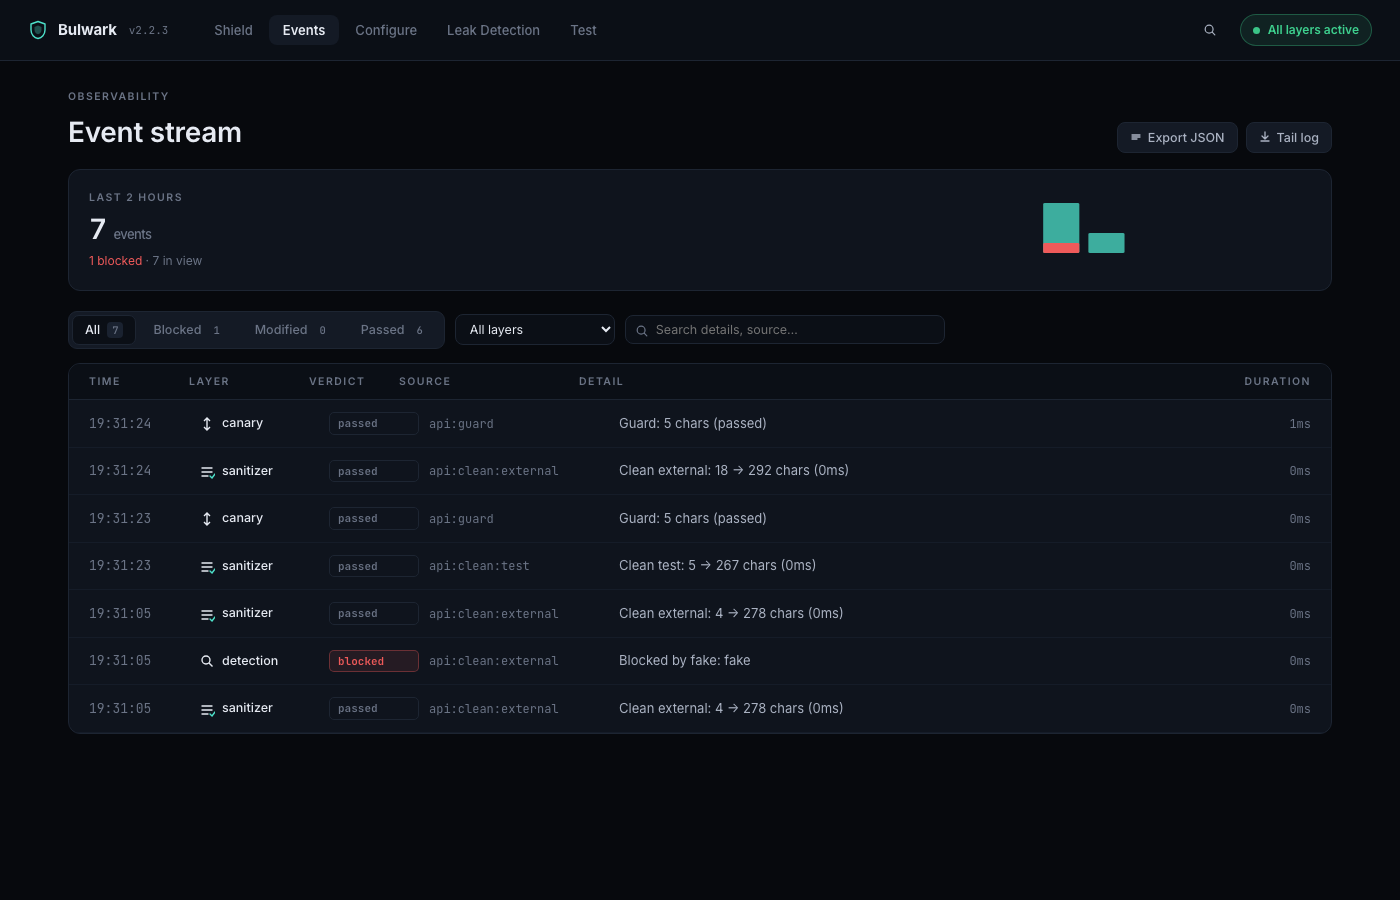
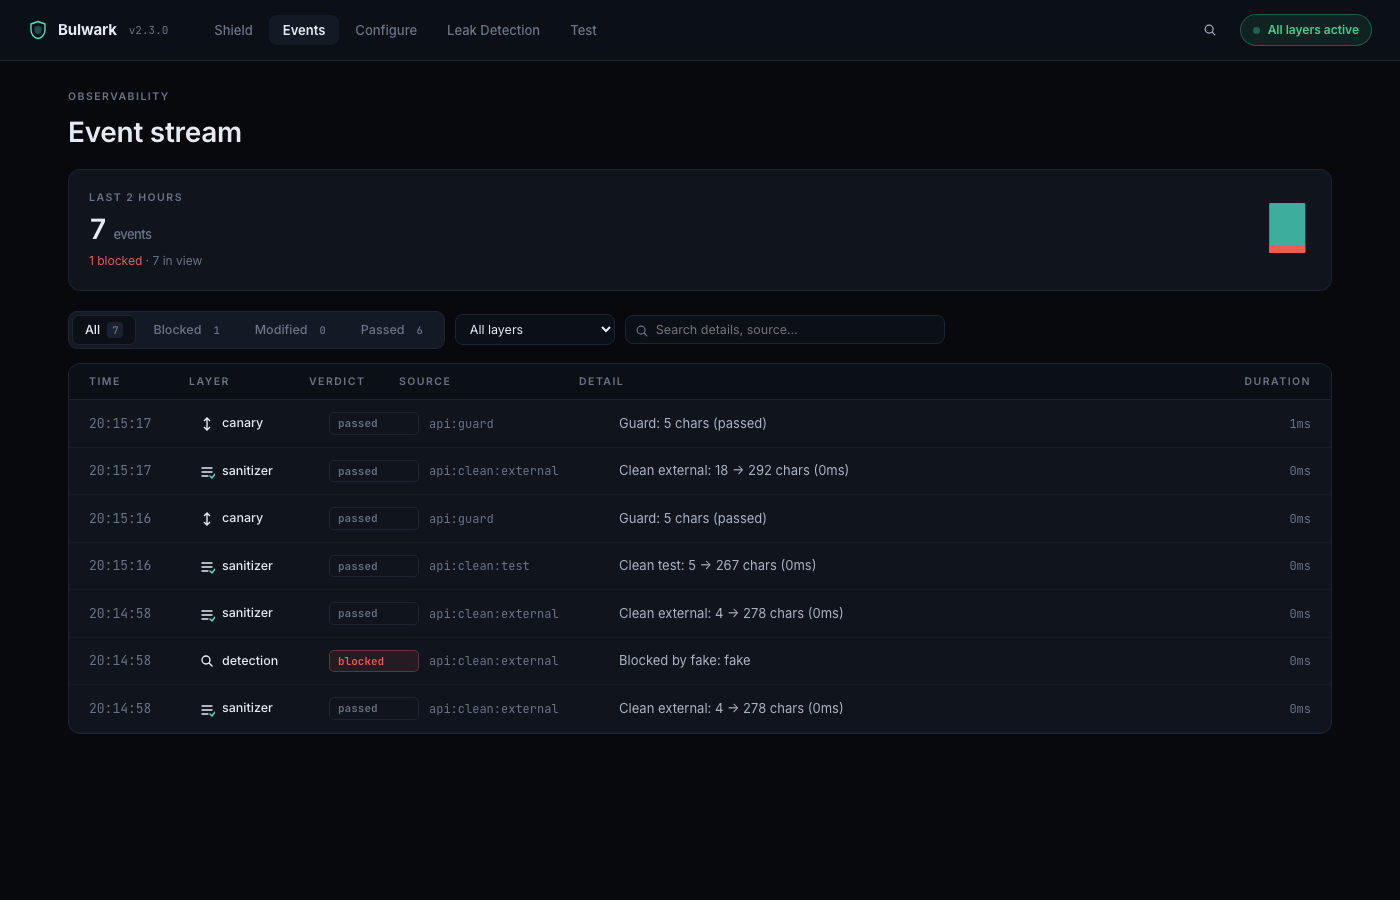
ui: remove unwired buttons + unify button style (v2.3.1) (#29)
Three buttons had no onClick — Events "Export JSON" + "Tail log",
Test "cURL". Removed; the contract NG-UI-TEST-002 + matching test
updated to reflect the removal.

.btn is now ghost-by-default with a subtle surface-2 hover instead
of the heavy outlined look. .btn-primary keeps its solid teal fill
(it's the call-to-action). .btn-danger is text-only with a soft-red
hover. Run + Clear no longer mix outlined and filled in the same row.

diff --git a/src/bulwark/dashboard/static/index.html b/src/bulwark/dashboard/static/index.html
@@ -148,27 +148,34 @@
 
   .spark { overflow: visible; }
 
-  /* generic button */
+  /* generic button — ghost by default, subtle hover. Primary is the CTA. */
   .btn {
     display: inline-flex; align-items: center; gap: 6px;
     padding: 7px 12px; border-radius: 8px;
-    border: 1px solid var(--border);
-    background: var(--surface-2);
+    border: 1px solid transparent;
+    background: transparent;
     color: var(--text-2);
     font-size: 12.5px; font-weight: 500;
-    transition: all 0.15s;
+    cursor: pointer;
+    transition: background 0.12s, color 0.12s;
   }
-  .btn:hover { color: var(--text); border-color: var(--border-2); background: var(--surface-3); }
+  .btn:hover { color: var(--text); background: var(--surface-2); }
+  .btn:disabled { opacity: 0.5; cursor: not-allowed; }
+  .btn:disabled:hover { background: transparent; color: var(--text-2); }
+
   .btn-primary {
     background: var(--accent); color: var(--accent-ink); border-color: var(--accent); font-weight: 600;
   }
   .btn-primary:hover { background: color-mix(in srgb, var(--accent) 88%, white); color: var(--accent-ink); border-color: color-mix(in srgb, var(--accent) 88%, white); }
 
+  .btn-danger { color: var(--red); }
+  .btn-danger:hover { background: var(--red-soft); color: var(--red); }
+
+  .btn-ghost { /* alias kept for back-compat — same as .btn now */ }
+  .btn-ghost:hover { background: var(--surface-2); }
+
   /* Shared @keyframes — Test page spinner + elsewhere */
   @keyframes spin { to { transform: rotate(360deg); } }
-  .btn-danger { background: var(--red-soft); color: var(--red); border-color: var(--red-line); }
-  .btn-ghost { background: transparent; border-color: transparent; }
-  .btn-ghost:hover { background: var(--surface-2); border-color: var(--border); }
 
   /* Checkbox-style pill */
   .pill {

diff --git a/src/bulwark/dashboard/static/src/page-events.jsx b/src/bulwark/dashboard/static/src/page-events.jsx
@@ -57,11 +57,7 @@ function PageEvents({ store }) {
 
   return (
     <div style={{padding: '28px 28px 60px', maxWidth: 1320, margin: '0 auto'}}>
-      <SectionTitle eyebrow="Observability" title="Event stream" size="lg"
-        action={<div style={{display: 'flex', gap: 8}}>
-          <button className="btn"><svg width="12" height="12" viewBox="0 0 12 12"><path d="M2 4h8M2 6h8M2 8h5" stroke="currentColor" strokeWidth="1.3" strokeLinecap="round"/></svg> Export JSON</button>
-          <button className="btn"><svg width="12" height="12" viewBox="0 0 12 12"><path d="M6 1v7M3 5l3 3 3-3M2 10h8" stroke="currentColor" strokeWidth="1.3" fill="none" strokeLinecap="round" strokeLinejoin="round"/></svg> Tail log</button>
-        </div>} />
+      <SectionTitle eyebrow="Observability" title="Event stream" size="lg" />
 
       {/* Timeline header */}
       <div className="card" style={{padding: 20, marginBottom: 20, display: 'grid', gridTemplateColumns: 'auto 1fr', gap: 24, alignItems: 'center'}}>

diff --git a/src/bulwark/dashboard/static/src/page-test.jsx b/src/bulwark/dashboard/static/src/page-test.jsx
@@ -128,7 +128,6 @@ function PageTest({ store }) {
                 }}/> Running…</> : <>▶ Run through pipeline</>}
               </button>
               <button className="btn" onClick={() => { setPayload(''); setTrace(null); }}>Clear</button>
-              <button className="btn" style={{marginLeft: 'auto'}}>cURL</button>
             </div>
           </div>
         </div>

diff --git a/tests/test_dashboard_ui_test_page.py b/tests/test_dashboard_ui_test_page.py
@@ -206,12 +206,11 @@ class TestNonGuarantees:
         src = _test_src()
         assert "setTimeout(() => reveal" not in src
 
-    def test_curl_is_stub(self):
-        """NG-UI-TEST-002: cURL button exists but does nothing."""
+    def test_curl_button_removed(self):
+        """NG-UI-TEST-002 (v2.3.0): cURL button removed — unwired buttons mislead users."""
         src = _test_src()
-        # cURL button is present but has no onClick handler:
-        assert ">cURL<" in src
-        # No export/copy helpers pretending to generate curl:
+        assert ">cURL<" not in src
+        # And we still don't render an actual curl snippet anywhere:
         assert "curl -X" not in src
 
 

diff --git a/CHANGELOG.md b/CHANGELOG.md
@@ -1,5 +1,12 @@
 # Changelog
 
+## [2.3.1] - 2026-04-23
+
+### Fixed
+
+- **Removed three unwired buttons** that had no `onClick` handlers and confused users: Events page "Export JSON" + "Tail log", Test page "cURL". Updated NG-UI-TEST-002 contract + test to reflect the removal.
+- **Unified button styling.** `.btn` is now ghost-by-default with a subtle `surface-2` hover instead of the previous heavy outlined look. `.btn-primary` keeps its solid teal fill (it's the call-to-action). `.btn-danger` is text-only with a soft-red hover. Buttons in the same row no longer mix three different visual treatments.
+
 ## [2.3.0] - 2026-04-23
 
 ### Changed
